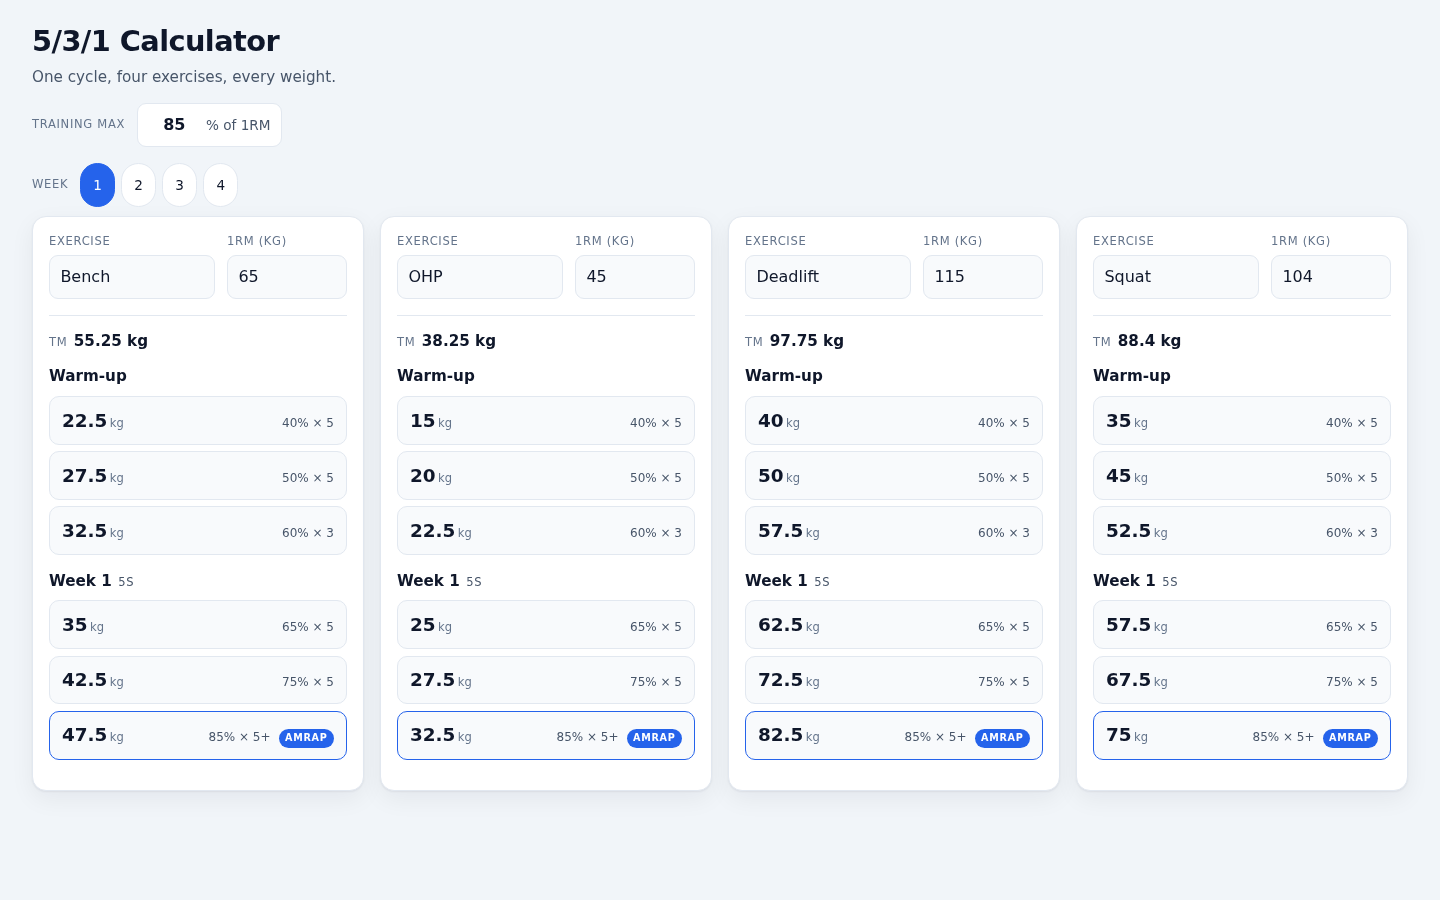
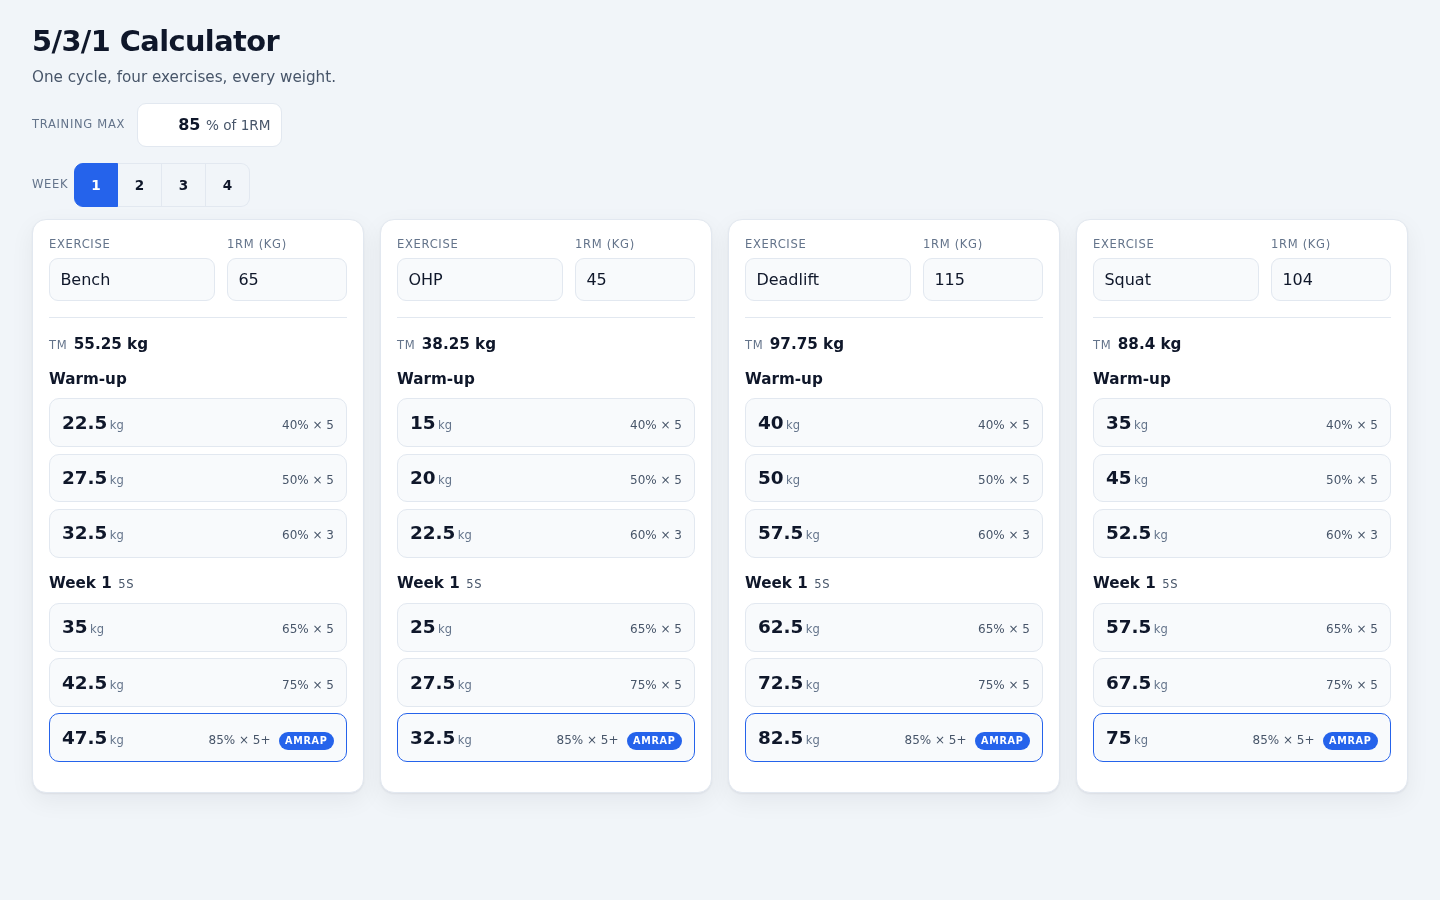
Polish settings controls and segmented week selector
- Remove number input spinners
- Tighten segmented control styling and alignment
- Refresh responsive review screenshots

diff --git a/src/style.css b/src/style.css
@@ -75,7 +75,26 @@ body {
 }
 
 .settings-week {
-  margin-bottom: 0.6rem;
+  margin-bottom: 0.75rem;
+  gap: 0;
+}
+
+.settings-week .segment + .segment span {
+  border-left: 0;
+}
+
+.settings-week .segment:first-of-type span {
+  border-top-left-radius: 9px;
+  border-bottom-left-radius: 9px;
+  border-top-right-radius: 0;
+  border-bottom-right-radius: 0;
+}
+
+.settings-week .segment:last-of-type span {
+  border-top-right-radius: 9px;
+  border-bottom-right-radius: 9px;
+  border-top-left-radius: 0;
+  border-bottom-left-radius: 0;
 }
 
 .settings-label {
@@ -119,6 +138,15 @@ body {
   font-weight: 600;
   text-align: right;
   font-variant-numeric: tabular-nums;
+  appearance: textfield;
+  -moz-appearance: textfield;
+}
+
+.tm-percent::-webkit-outer-spin-button,
+.tm-percent::-webkit-inner-spin-button {
+  -webkit-appearance: none;
+  appearance: none;
+  margin: 0;
 }
 
 .tm-percent:focus {
@@ -144,6 +172,7 @@ body {
 .segment span {
   display: inline-flex;
   align-items: center;
+  justify-content: center;
   min-height: 44px;
   padding: 0.4rem 0.75rem;
   border: 1px solid var(--border);
@@ -152,6 +181,18 @@ body {
   font-size: 0.85rem;
   cursor: pointer;
   user-select: none;
+}
+
+.settings-week .segment span {
+  min-width: 44px;
+  padding: 0.4rem 0.6rem;
+  border-radius: 0;
+  font-variant-numeric: tabular-nums;
+  font-weight: 600;
+}
+
+.settings-week .segment input:not(:checked) + span {
+  background: var(--bg);
 }
 
 .segment span:hover {
